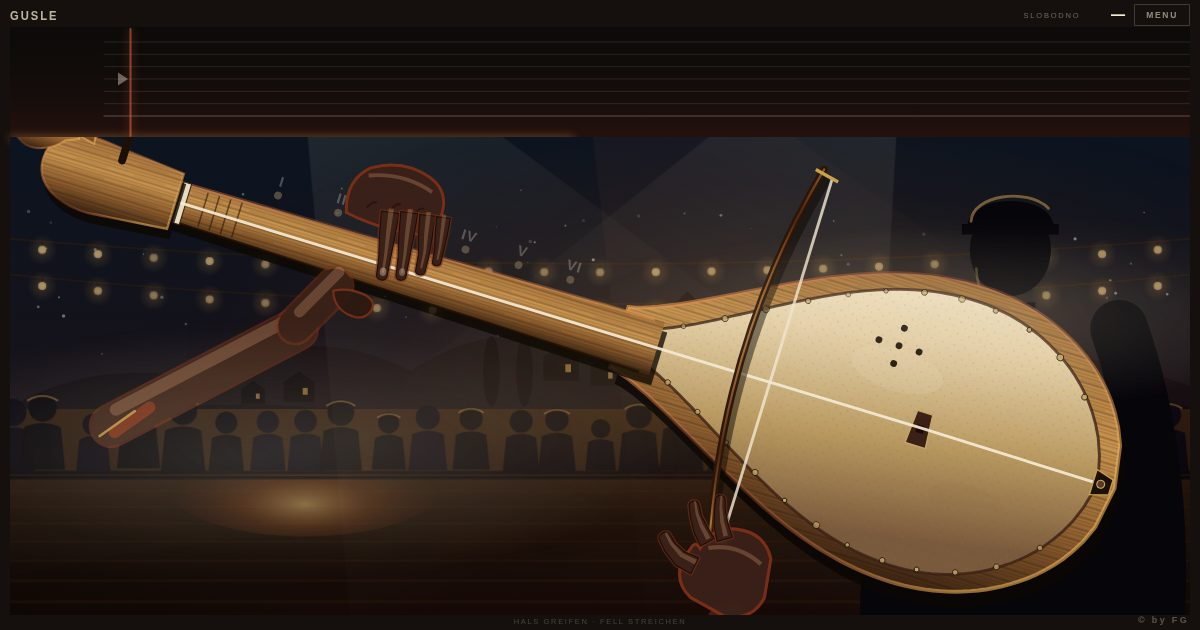
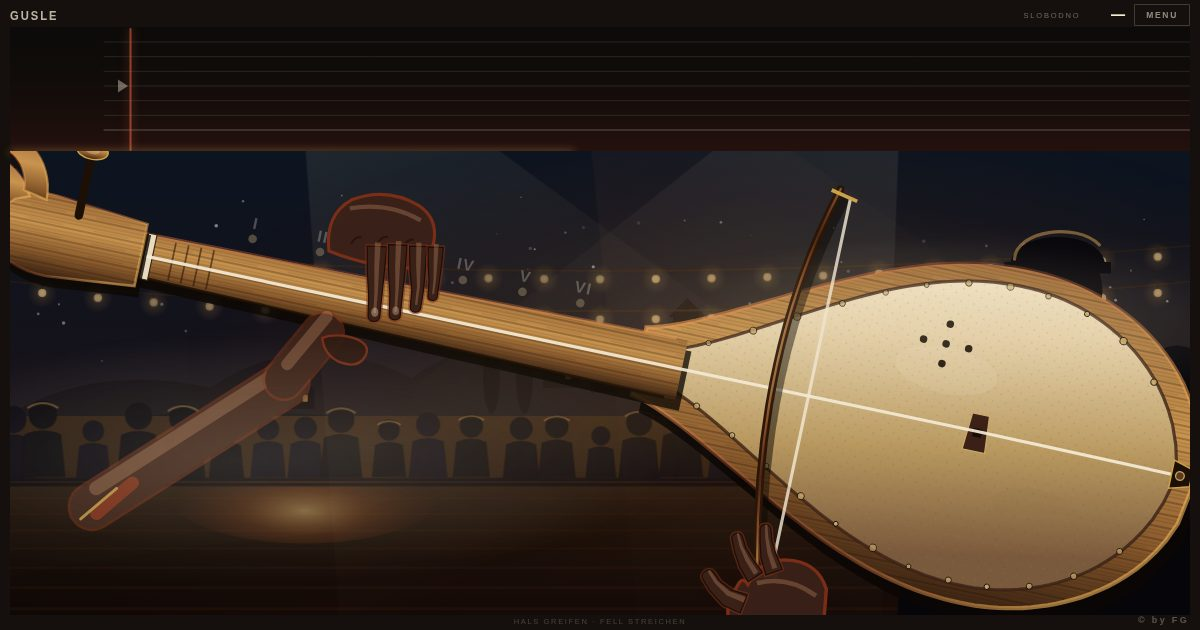
Querformat bleibt, die Gusle kommt groesser ins Bild
Die Frage war, ob Hochformat nicht besser waere. Der eine echte Vorteil
des Hochformats ist der laengere Hals: 340 px statt 215 px auf dem
Telefon, und die Gusle lebt vom Greifen ohne Buende. Der Rest spricht
fuers Querformat - beide Daumen wie an einem Controller, dieselbe Haltung
wie bei Sargija und Harmonika, breite Buehne, drei Sekunden Vorlauf auf
der Notenbahn, der Bogenstrich als kurze Auf-und-ab-Bewegung.

Darum bleibt es quer, und der Hals holt auf: das Instrument liegt flacher
(12 statt 17 Grad) und steht in einem engeren Ausschnitt. Halslaenge
jetzt 258 px auf dem iPhone SE, 289 px auf dem Pro Max. Die Notenbahn
ist um ein Zehntel hoeher, damit die sechs Griffstufen lesbar bleiben.
Der Bogen ist oben gekuerzt, damit er nicht in die Notenbahn ragt.

Claude-Session: https://claude.ai/code/session_019zrTjRByfPjQxjFdWTmgK5

diff --git a/index.html b/index.html
@@ -60,7 +60,7 @@
   #stopBtn:hover{background:rgba(240,180,90,.15)}
 
   #staffWrap{flex:0 0 auto;margin-top:1px;position:relative;
-             height:clamp(64px,19.5%,110px);background:#0d0b09}
+             height:clamp(70px,21%,124px);background:#0d0b09}
   #staff{display:block;width:100%;height:100%}
   #vatra{position:absolute;left:0;right:0;bottom:-3px;height:3px;
     background:rgba(244,234,214,.08)}
@@ -1037,11 +1037,11 @@ function refTone(p){
    hingehört, Fell rechts unter dem Bogen. Der Blick geht dem Guslar über
    die Schulter.                                                           */
 const NS="http://www.w3.org/2000/svg";
-const NUTX=150, NUTY=100, ANG=17;
+const NUTX=150, NUTY=112, ANG=12;
 const SLEN=590;                       // Sattel bis Steg
 const NECK_END=372, BODY_X0=350, BODY_X1=745, BODY_W=118, BODY_W0=24;
 const TAIL_X=728, BOWX=470;
-const INST_CX=470, INST_CY=232, INST_W=900, INST_H=352;
+const INST_CX=465, INST_CY=200, INST_W=820, INST_H=290;
 const COS=Math.cos(ANG*Math.PI/180), SIN=Math.sin(ANG*Math.PI/180);
 
 function neckHalf(x){ return 15+Math.max(0,Math.min(1,(x+10)/(NECK_END+10)))*6; }
@@ -1331,16 +1331,16 @@ function buildFretHand(){
 let bowStick=null, bowHair=null, bowG=null;
 function buildBow(){
   const L=document.getElementById("bow"); L.innerHTML=""; bowG=L;
-  el("path",{d:"M"+(BOWX-8)+" -168 Q"+(BOWX-44)+" -20 "+(BOWX-8)+" 132",fill:"none",
+  el("path",{d:"M"+(BOWX-8)+" -146 Q"+(BOWX-44)+" -20 "+(BOWX-8)+" 132",fill:"none",
     stroke:"#0b0704",opacity:".5","stroke-width":"7","stroke-linecap":"round",transform:"translate(4,6)"},L);
-  bowStick=el("path",{d:"M"+(BOWX-8)+" -168 Q"+(BOWX-44)+" -20 "+(BOWX-8)+" 132",fill:"none",
+  bowStick=el("path",{d:"M"+(BOWX-8)+" -146 Q"+(BOWX-44)+" -20 "+(BOWX-8)+" 132",fill:"none",
     stroke:"#2a1608","stroke-width":"5.4","stroke-linecap":"round"},L);
-  el("path",{d:"M"+(BOWX-8)+" -168 Q"+(BOWX-44)+" -20 "+(BOWX-8)+" 132",fill:"none",
+  el("path",{d:"M"+(BOWX-8)+" -146 Q"+(BOWX-44)+" -20 "+(BOWX-8)+" 132",fill:"none",
     stroke:"url(#edgeG)","stroke-width":"1.6","stroke-linecap":"round"},L);
-  bowHair=el("path",{d:"M"+BOWX+" -164 L"+BOWX+" 126",fill:"none",stroke:"#f4ead6",
+  bowHair=el("path",{d:"M"+BOWX+" -142 L"+BOWX+" 126",fill:"none",stroke:"#f4ead6",
     "stroke-width":"2.2",opacity:".8"},L);
   // Bindungen an beiden Enden
-  el("path",{d:"M"+(BOWX-14)+" -166 L"+(BOWX+5)+" -162 M"+(BOWX-14)+" 130 L"+(BOWX+5)+" 126",
+  el("path",{d:"M"+(BOWX-14)+" -144 L"+(BOWX+5)+" -140 M"+(BOWX-14)+" 130 L"+(BOWX+5)+" 126",
     stroke:"#c9a24a","stroke-width":"2.6"},L);
   const h=el("g",{transform:"translate("+(BOWX+4)+",128)"},L);
   limb("M156 250 L44 96",36,h);
@@ -2509,7 +2509,7 @@ function loop(t){
   if(bowPid===null&&S.mode!=="demo"&&!introT) S.bowPos*=Math.pow(.9,f);
   if(bowStick){
     const bend=v*6+S.scratch*4;
-    sattr(bowStick,"d","M"+(BOWX-8)+" -168 Q"+(BOWX-44-bend).toFixed(1)+" -20 "+(BOWX-8)+" 132");
+    sattr(bowStick,"d","M"+(BOWX-8)+" -146 Q"+(BOWX-44-bend).toFixed(1)+" -20 "+(BOWX-8)+" 132");
   }
   if(bowG) sattr(bowG,"transform","translate("+(v*1.5).toFixed(1)+","+S.bowPos.toFixed(1)+") rotate("+S.bowAng.toFixed(1)+" "+BOWX+" 0)");
   sattr(fretHand,"transform","translate("+xFromPos(S.visPos).toFixed(1)+",0)");
